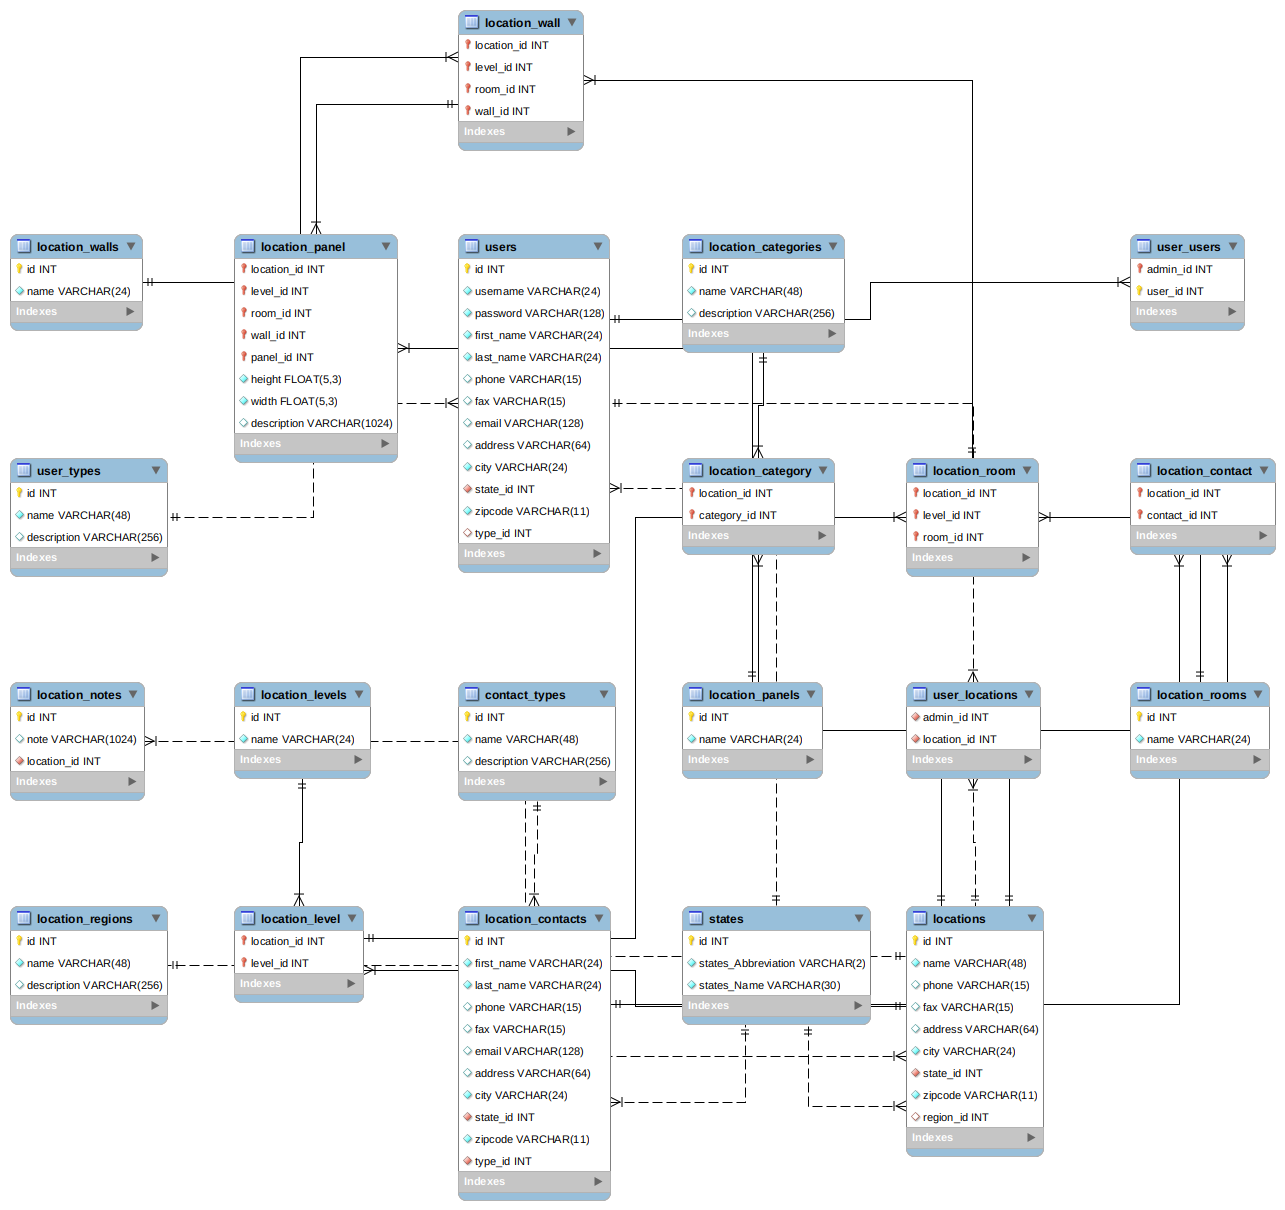
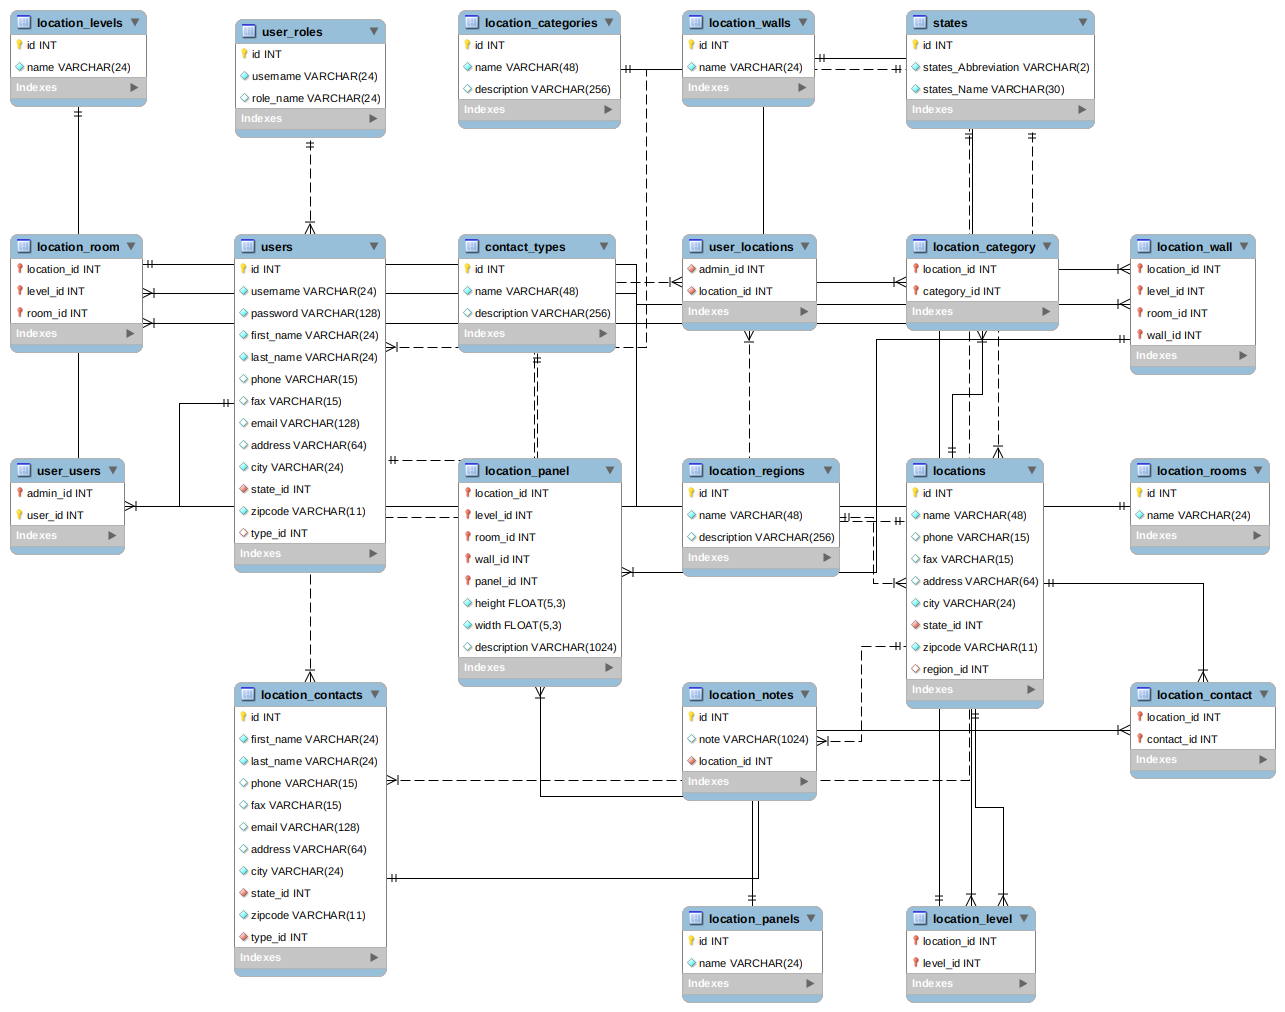
Added user_roles to database.

diff --git a/src/main/java/com/adhound/entity/User.java b/src/main/java/com/adhound/entity/User.java
@@ -1,0 +1,11 @@
+package com.adhound.entity;
+
+public class User {
+
+    User() {}
+
+    private int id;
+    private String username;
+
+
+}
